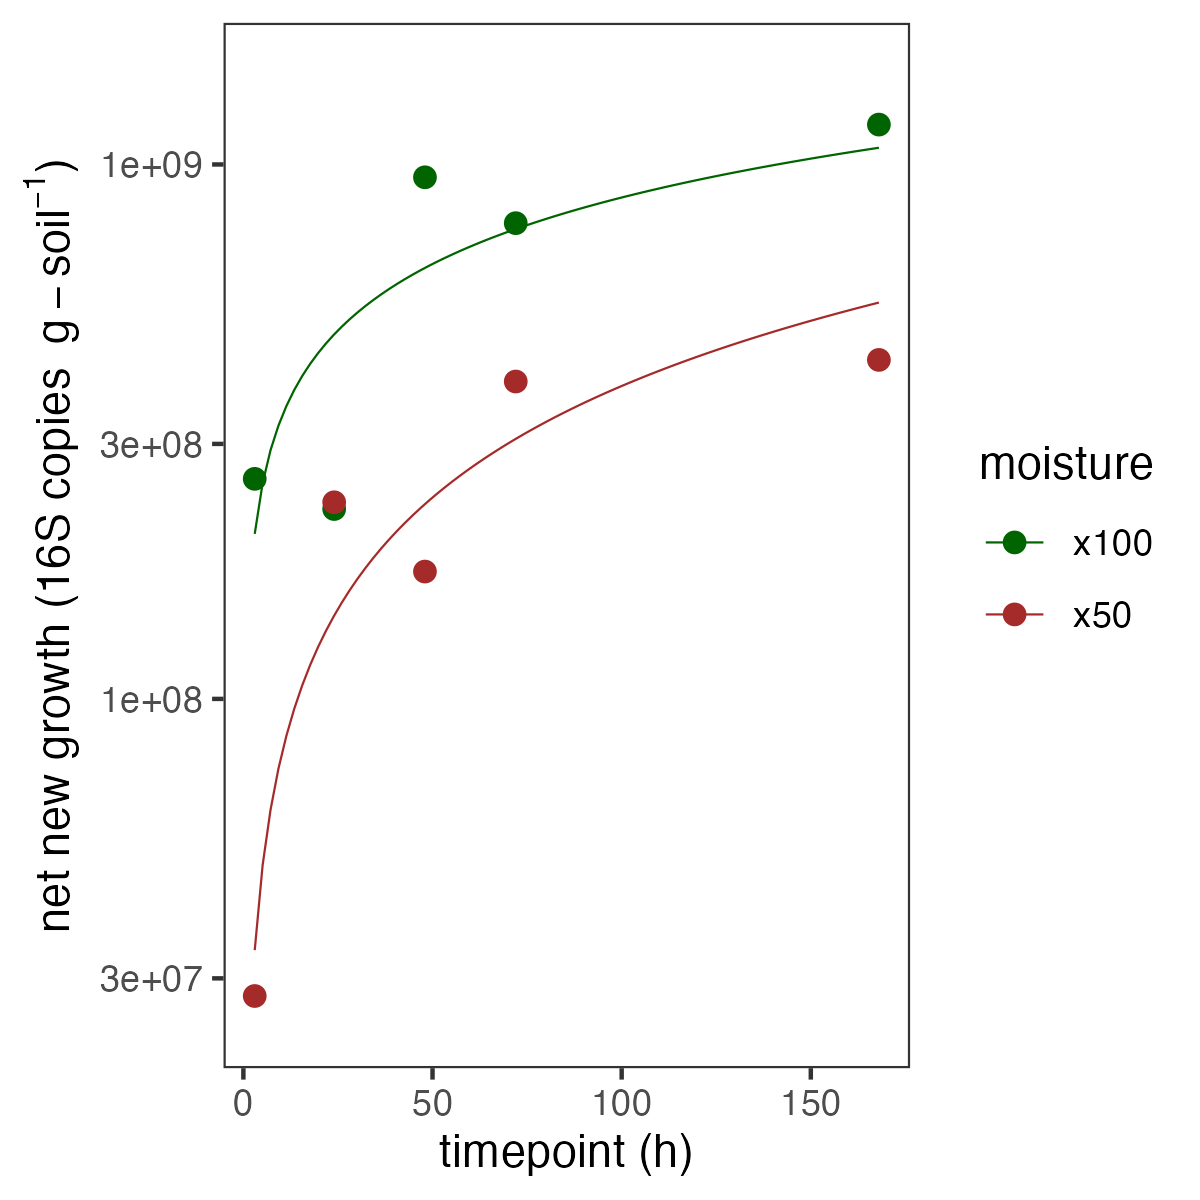
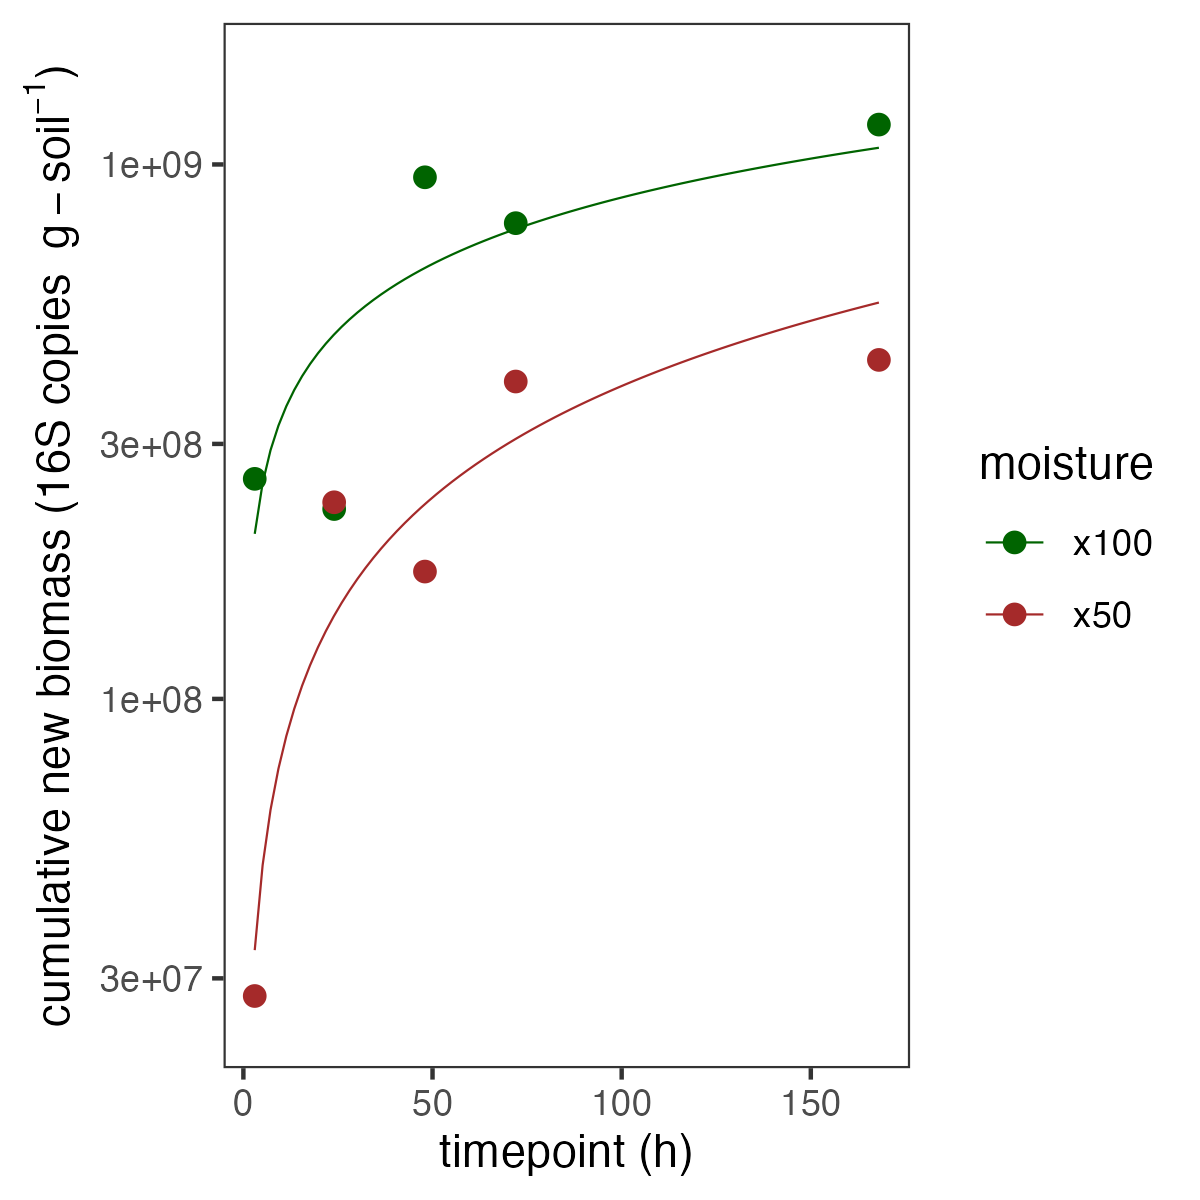
revision-fig2

Changed region(s): [[0.0308, 0.0925, 0.0617, 0.8633], [0.0308, 0.0308, 0.0617, 0.0617]]

diff --git a/README.md b/README.md
@@ -1,7 +1,7 @@
 # CA_grassland_omics
 Scripts for the manuscript, "Reduced legacy precipitation decreases microbial community growth efficiency and alters soil organic carbon in a California grassland"
 
-Authors: Linnea K. Honeker1, Nicole Didonato2, Ljiljana Pasa-Tolic2, Pete F. Chuckran3, Mary K. Firestone3,4, Ella T. Sieradzki3,5, Mengting Maggie Yuan3,6, Katerina Estera-Molina1, Jeffrey Kimbrel1, Paul Dijkstra7, Jillian F. Banfield3, Jennifer Pett-Ridge1,8, Steven J. Blazewicz1
+Authors: Linnea K. Hernandez1, Nicole Didonato2, Ljiljana Pasa-Tolic2, Pete F. Chuckran3, Mary K. Firestone3,4, Ella T. Sieradzki3,5, Mengting Maggie Yuan3,6, Katerina Estera-Molina1, Jeffrey Kimbrel1, Paul Dijkstra7, Jillian F. Banfield3, Jennifer Pett-Ridge1,8, Steven J. Blazewicz1
 
 1	Physical and Life Science Directorate, Lawrence Livermore National Laboratory, Livermore, CA, USA.
 2	Environmental Molecular Science Laboratory (EMSL), Earth and Biological Sciences Division, Pacific Northwest National Laboratory, Richland, WA, USA
